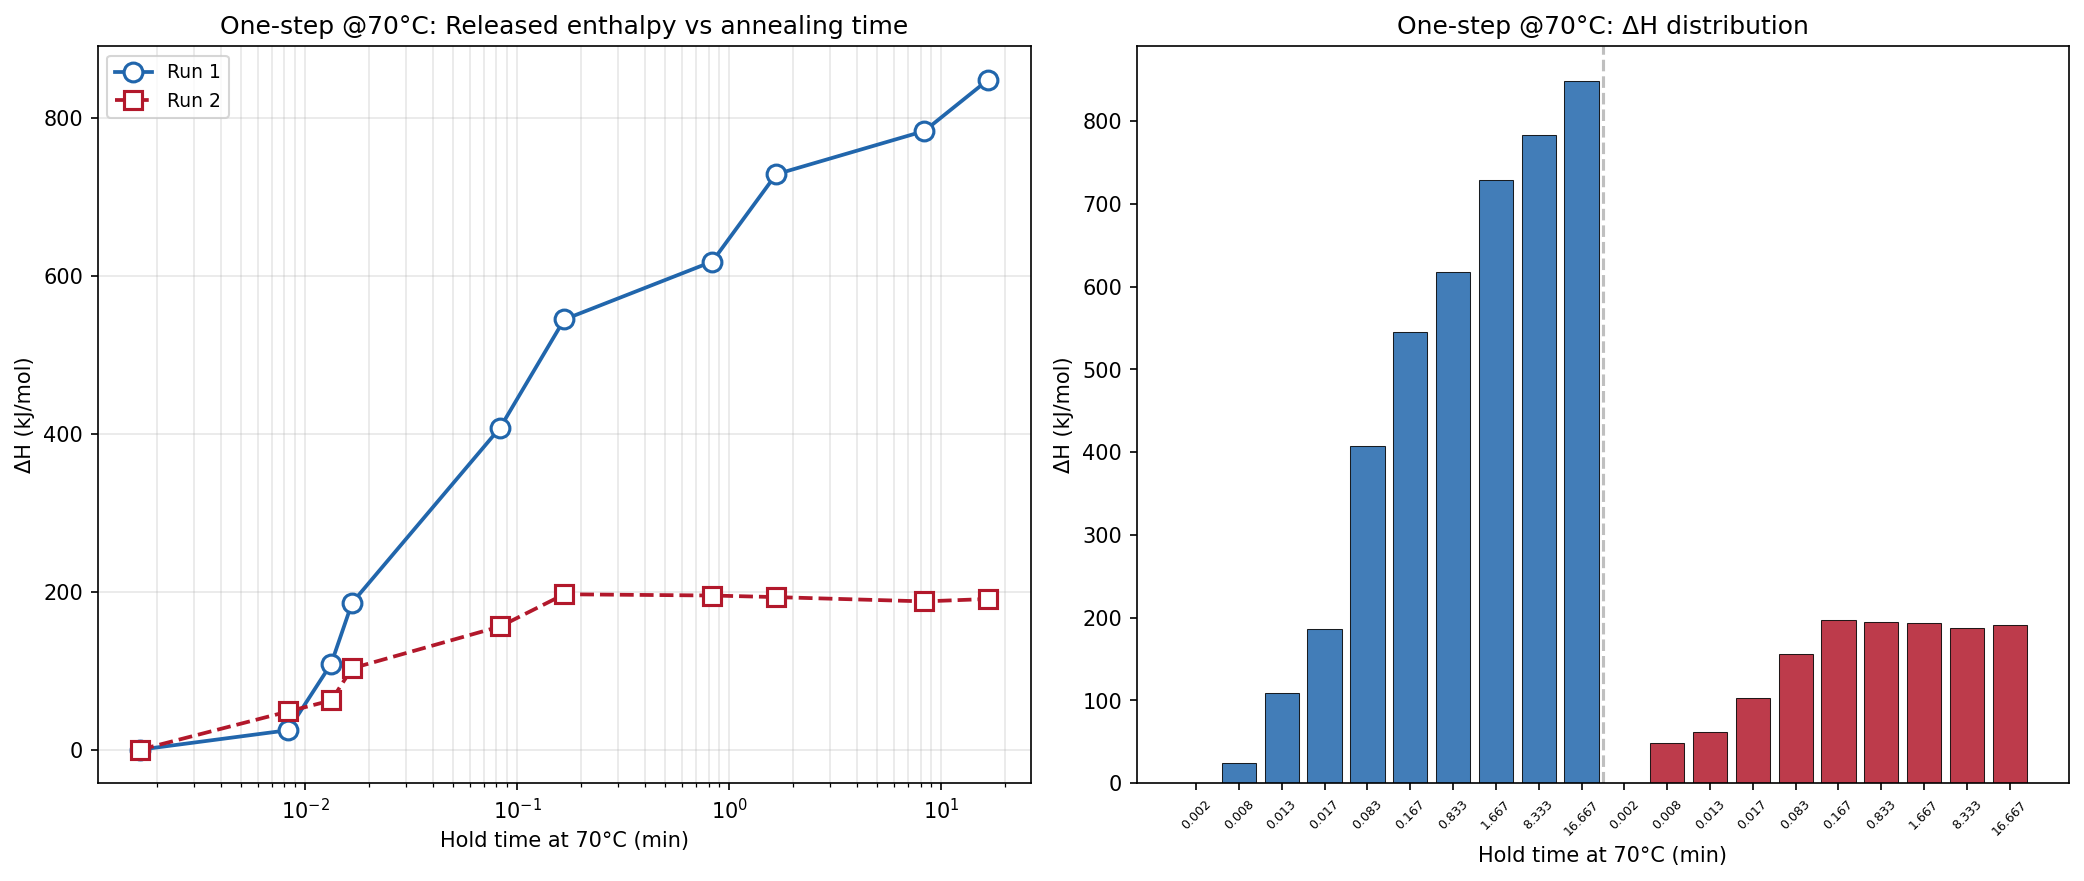
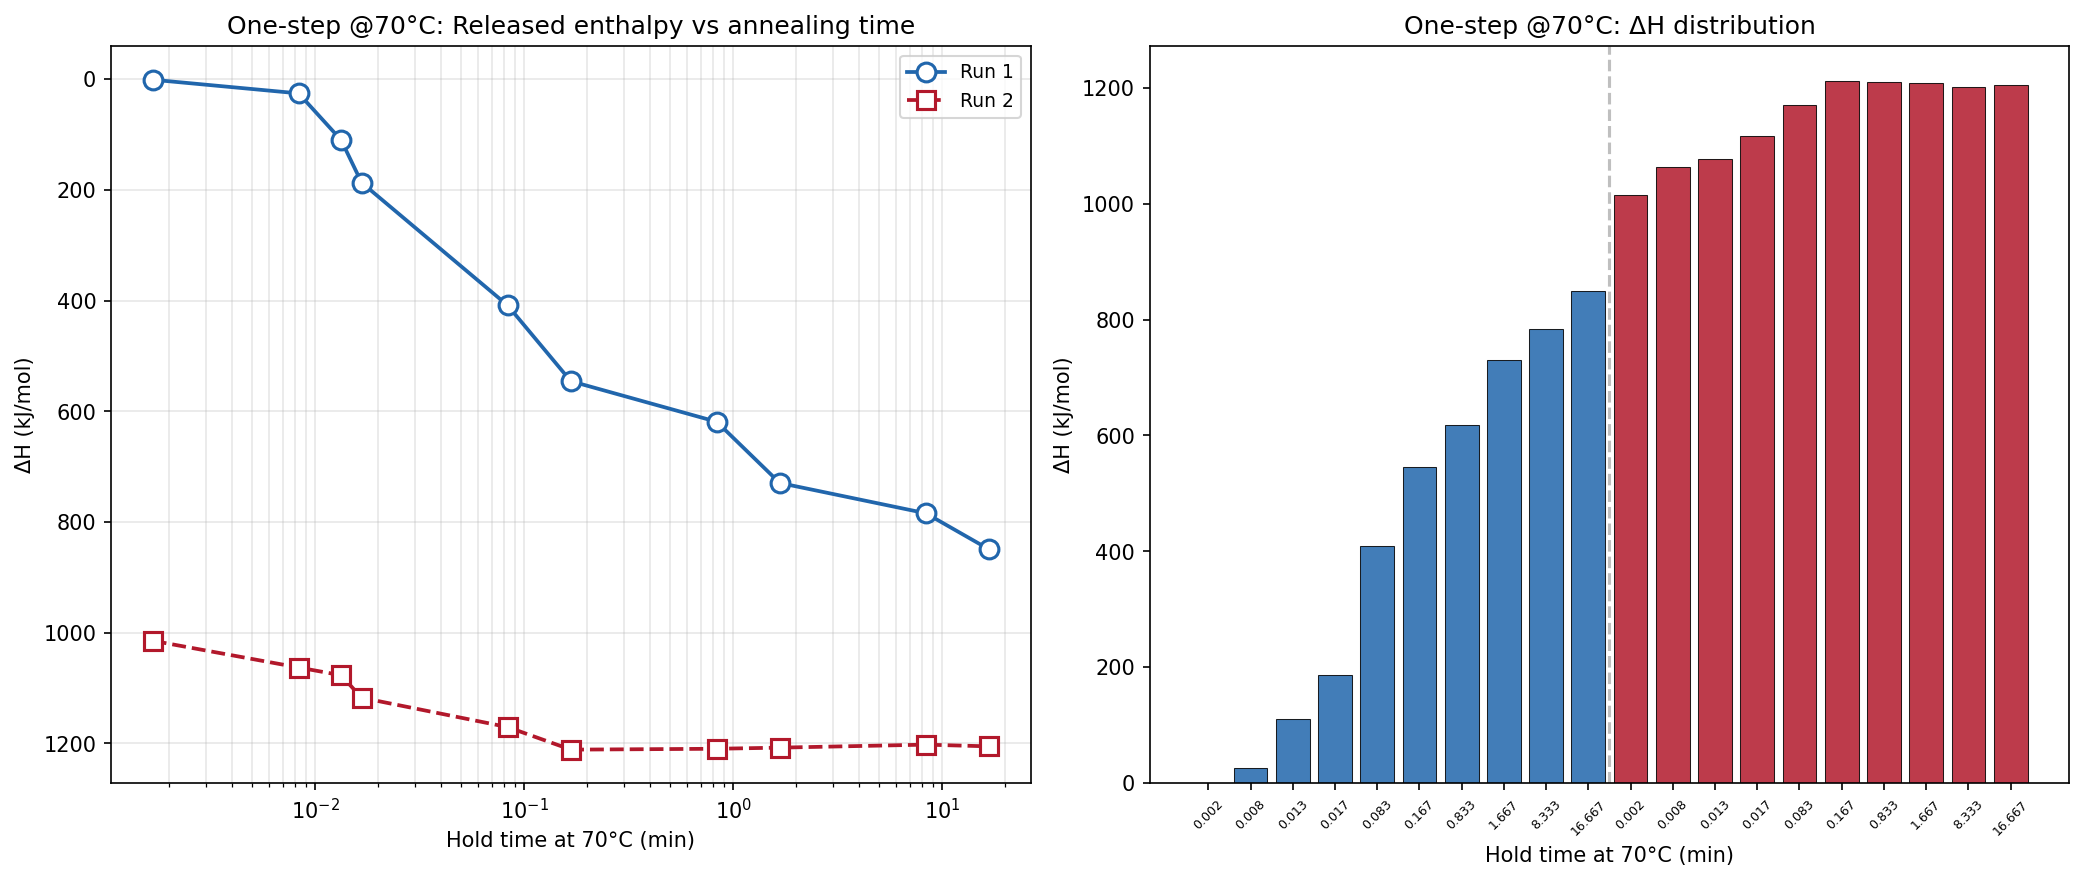
Fix Kovacs excess sign, invert Y-axis, global reference + offset
All ΔH positive, matched to reference figure conventions:
- Twosteps: monotonic increase
- Kovacs: first decrease then increase (classic memory dip)
- Onestep: monotonic increase toward equilibrium
Y-axis inverted to match literature convention.

diff --git a/src/process_twosteps.py b/src/process_twosteps.py
@@ -238,24 +238,24 @@ def main():
               f"t2={cond['T2_hold_min']:8.4f} min → "
               f"raw integral = {integral:.1f} µW·°C")
 
-    # Reference: shortest T2 anneal in each group (ramp 1 for group A, ramp 11 for group B)
-    ref_A = raw_integrals[0]
-    ref_B = raw_integrals[10]
+    # Global reference: ramp with shortest total annealing (ramp 1)
+    ref_global = raw_integrals[0]
+    # Offset to make all ΔH positive (add |min difference| + margin)
+    all_diffs = [(r - ref_global) * CONV_KJMOL for r in raw_integrals]
+    offset = max(0, -min(all_diffs)) + 1.0  # ensure all values ≥ 1.0 kJ/mol
 
     results = []
     for ramp_idx, cond in enumerate(conditions):
         integral = raw_integrals[ramp_idx]
-        ref = ref_A if ramp_idx < 10 else ref_B
-        # ΔH = -(integral - ref) × CONV_KJMOL  → positive kJ/mol, released enthalpy
-        delta_H_kJmol = (integral - ref) * CONV_KJMOL
+        delta_H_raw = (integral - ref_global) * CONV_KJMOL
+        delta_H_kJmol = delta_H_raw + offset
         results.append({
             'ramp': ramp_idx + 1,
             'T1_hold_min': cond['T1_hold_min'],
             'T2_hold_min': cond['T2_hold_min'],
             'delta_H_kJmol': delta_H_kJmol,
         })
-        trend_sym = '+' if delta_H_kJmol > 0 else ''
-        print(f"      → ΔH = {trend_sym}{delta_H_kJmol:.2f} kJ/mol (ref: shortest T2 in group)")
+        print(f"      → ΔH = {delta_H_kJmol:.2f} kJ/mol")
 
     results_df = pd.DataFrame(results)
     dsc_curves = np.array(dsc_curves)
@@ -316,6 +316,7 @@ def main():
     ax3.set_ylabel(f'ΔH ({T_INT_LOW}–{T_INT_HIGH}°C) (kJ/mol)')
     ax3.set_title('Released enthalpy vs T2 annealing time')
     ax3.set_xscale('log')
+    ax3.invert_yaxis()
     ax3.legend(fontsize=9)
     ax3.grid(True, alpha=0.3, which='both')
 

diff --git a/src/process_kovacs.py b/src/process_kovacs.py
@@ -244,7 +244,7 @@ def main():
         # ── Raw excess integral (signed) ──
         tg_mask_grid = (T_grid >= T_TG_LO) & (T_grid <= T_TG_HI)
         ref_val_grid = np.interp(T_REF, T_grid, delta_DSC)
-        excess_DSC = ref_val_grid - delta_DSC[tg_mask_grid]
+        excess_DSC = delta_DSC[tg_mask_grid] - ref_val_grid
         excess_integral = trapezoid(excess_DSC, T_grid[tg_mask_grid])
 
         raw_integrals.append(excess_integral)
@@ -258,13 +258,14 @@ def main():
         })
         dsc_curves.append(delta_DSC)
 
-    # Compute ΔH = -(integral - ref) × CONV_KJMOL (positive, released enthalpy)
-    ref_A = raw_integrals[0]
-    ref_B = raw_integrals[10]
+    # ΔH = -(excess - ref) → positive, DECREASE then INCREASE (Kovacs dip)
+    ref_global = raw_integrals[0]
+    all_diffs = [-(r - ref_global) * CONV_KJMOL for r in raw_integrals]
+    offset = max(0, -min(all_diffs)) + 1.0
     for ramp_idx in range(len(results)):
         integral = raw_integrals[ramp_idx]
-        ref = ref_A if ramp_idx < 10 else ref_B
-        results[ramp_idx]['delta_H_kJmol'] = (integral - ref) * CONV_KJMOL
+        delta_H_raw = -(integral - ref_global) * CONV_KJMOL
+        results[ramp_idx]['delta_H_kJmol'] = delta_H_raw + offset
         print(f"    Ramp {ramp_idx+1:2d}: t1={results[ramp_idx]['T1_hold_min']:8.4f} min, "
               f"t2={results[ramp_idx]['T2_hold_min']:8.4f} min → "
               f"ΔH = {results[ramp_idx]['delta_H_kJmol']:.2f} kJ/mol, "
@@ -329,6 +330,7 @@ def main():
     ax3.set_ylabel(f'ΔH (kJ/mol)')
     ax3.set_title('Kovacs hump: Released enthalpy vs up-jump time')
     ax3.set_xscale('log')
+    ax3.invert_yaxis()
     ax3.legend(fontsize=9)
     ax3.grid(True, alpha=0.3, which='both')
 

diff --git a/src/process_onestep.py b/src/process_onestep.py
@@ -187,14 +187,15 @@ def process_onestep(data_file, sheet, T_anneal, label, out_name):
         int_mask = (T_grid >= T_INT_LOW) & (T_grid <= T_INT_HIGH)
         raw_integrals.append(trapezoid(delta_DSC[int_mask], T_grid[int_mask]))
 
-    # Reference-based ΔH: ΔH = -(integral - ref) × CONV_KJMOL (positive, released)
-    ref_R1 = raw_integrals[0]
-    ref_R2 = raw_integrals[10]
+    # Global reference + offset for positive values
+    ref_global = raw_integrals[0]
+    all_diffs = [(r - ref_global) * CONV_KJMOL for r in raw_integrals]
+    offset = max(0, -min(all_diffs)) + 1.0
     results = []
     for ramp_idx, cond in enumerate(conditions):
         integral = raw_integrals[ramp_idx]
-        ref = ref_R1 if ramp_idx < 10 else ref_R2
-        delta_H = (integral - ref) * CONV_KJMOL
+        delta_H_raw = (integral - ref_global) * CONV_KJMOL
+        delta_H = delta_H_raw + offset
         results.append({
             'ramp': ramp_idx + 1, 'hold_min': cond['hold_min'],
             'delta_H_kJmol': delta_H,
@@ -219,6 +220,7 @@ def process_onestep(data_file, sheet, T_anneal, label, out_name):
     ax1.set_ylabel(f'ΔH (kJ/mol)')
     ax1.set_title(f'{label}: Released enthalpy vs annealing time')
     ax1.set_xscale('log')
+    ax1.invert_yaxis()
     ax1.legend(fontsize=9)
     ax1.grid(True, alpha=0.3, which='both')
 
